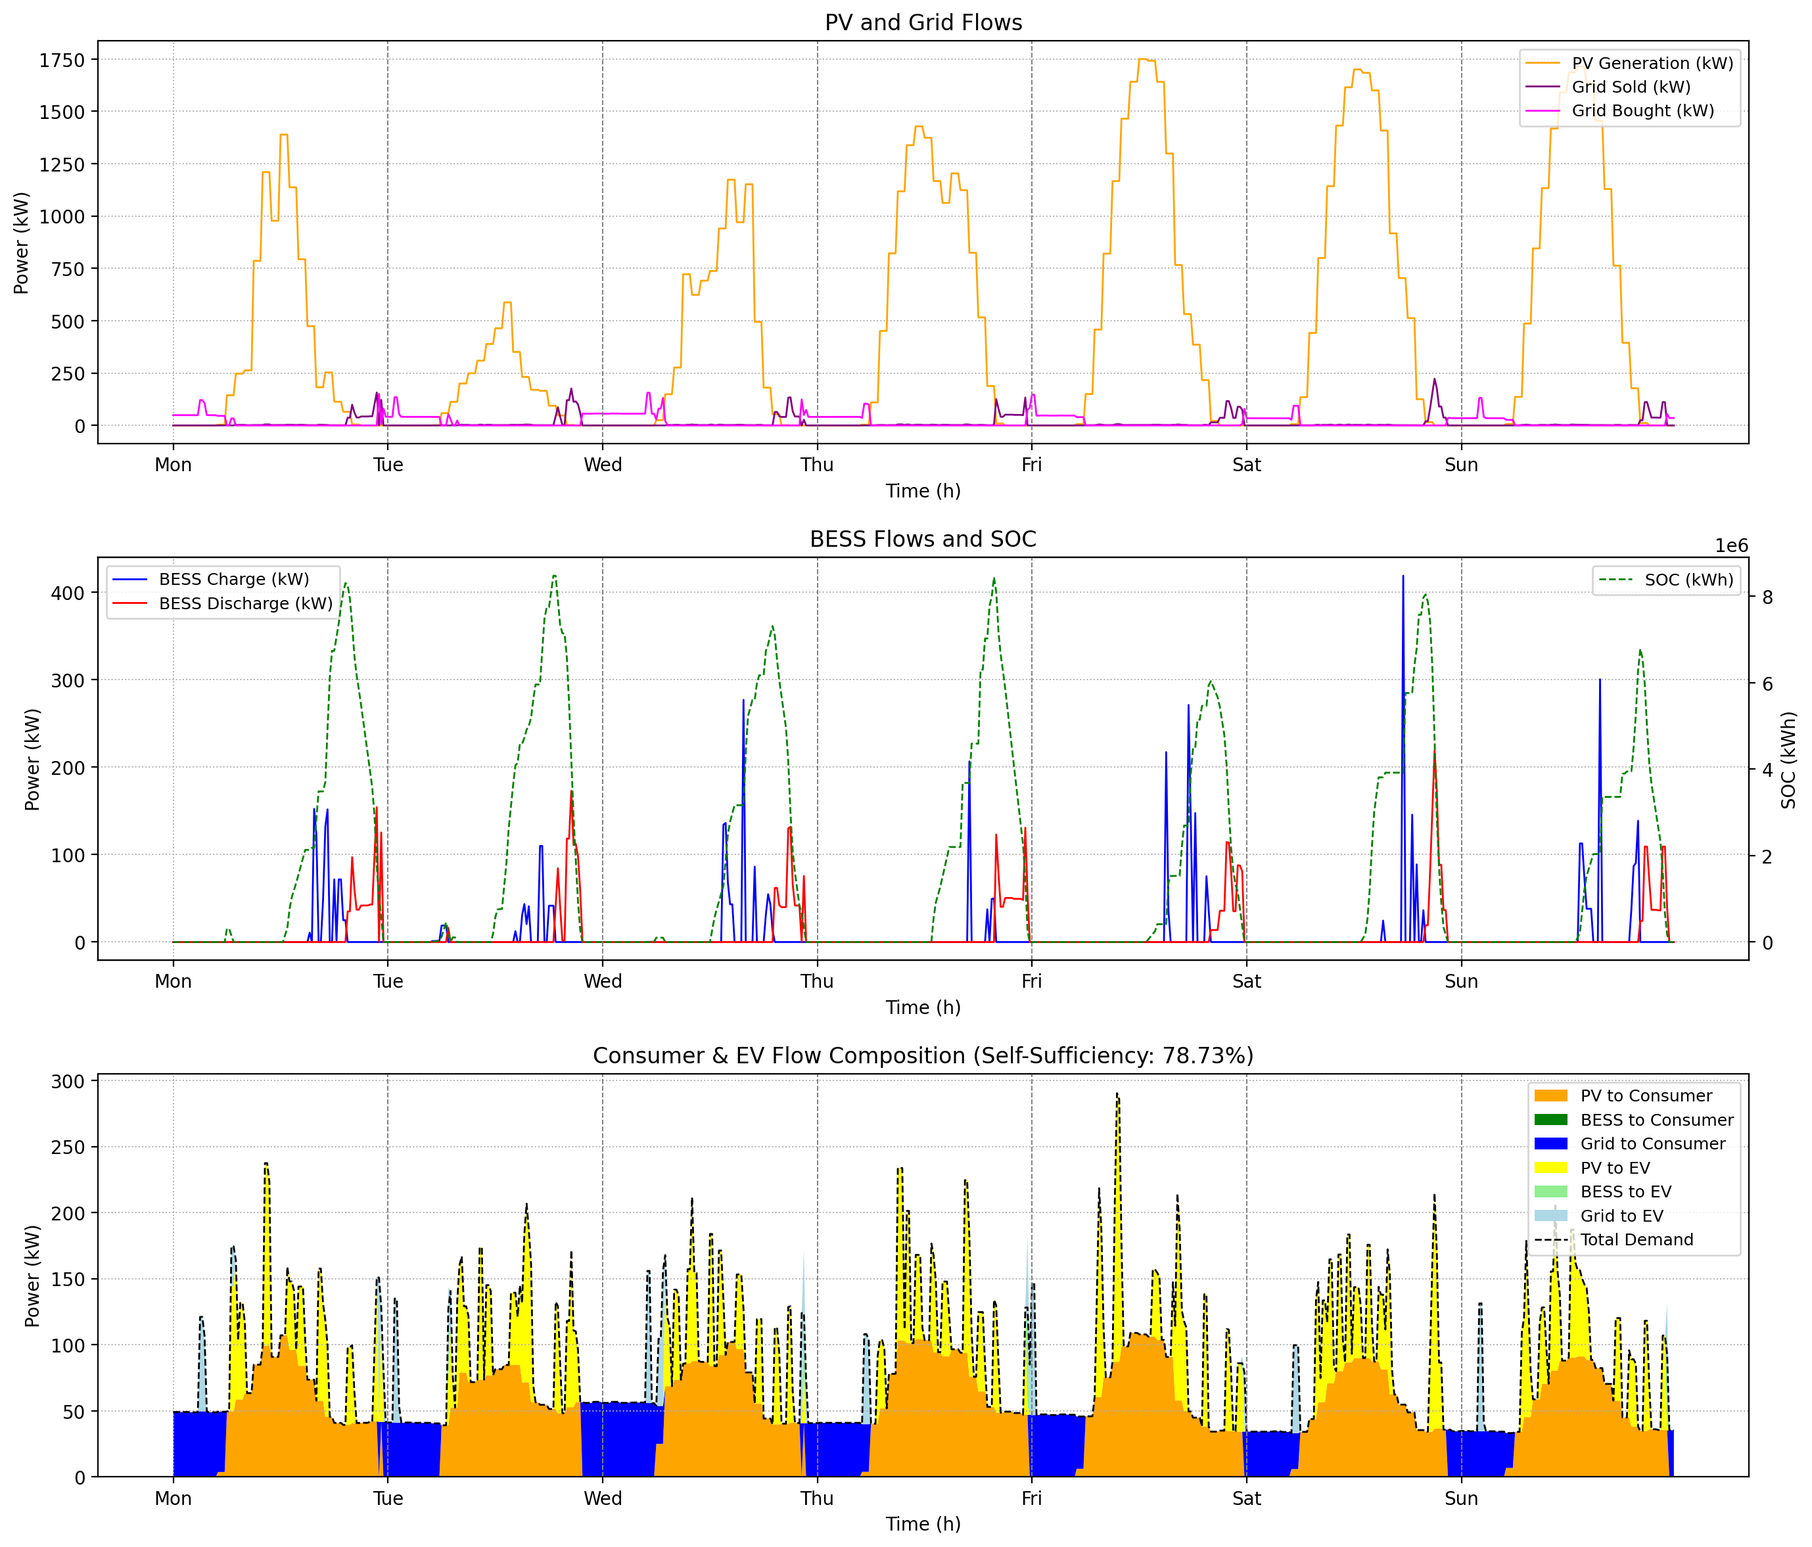
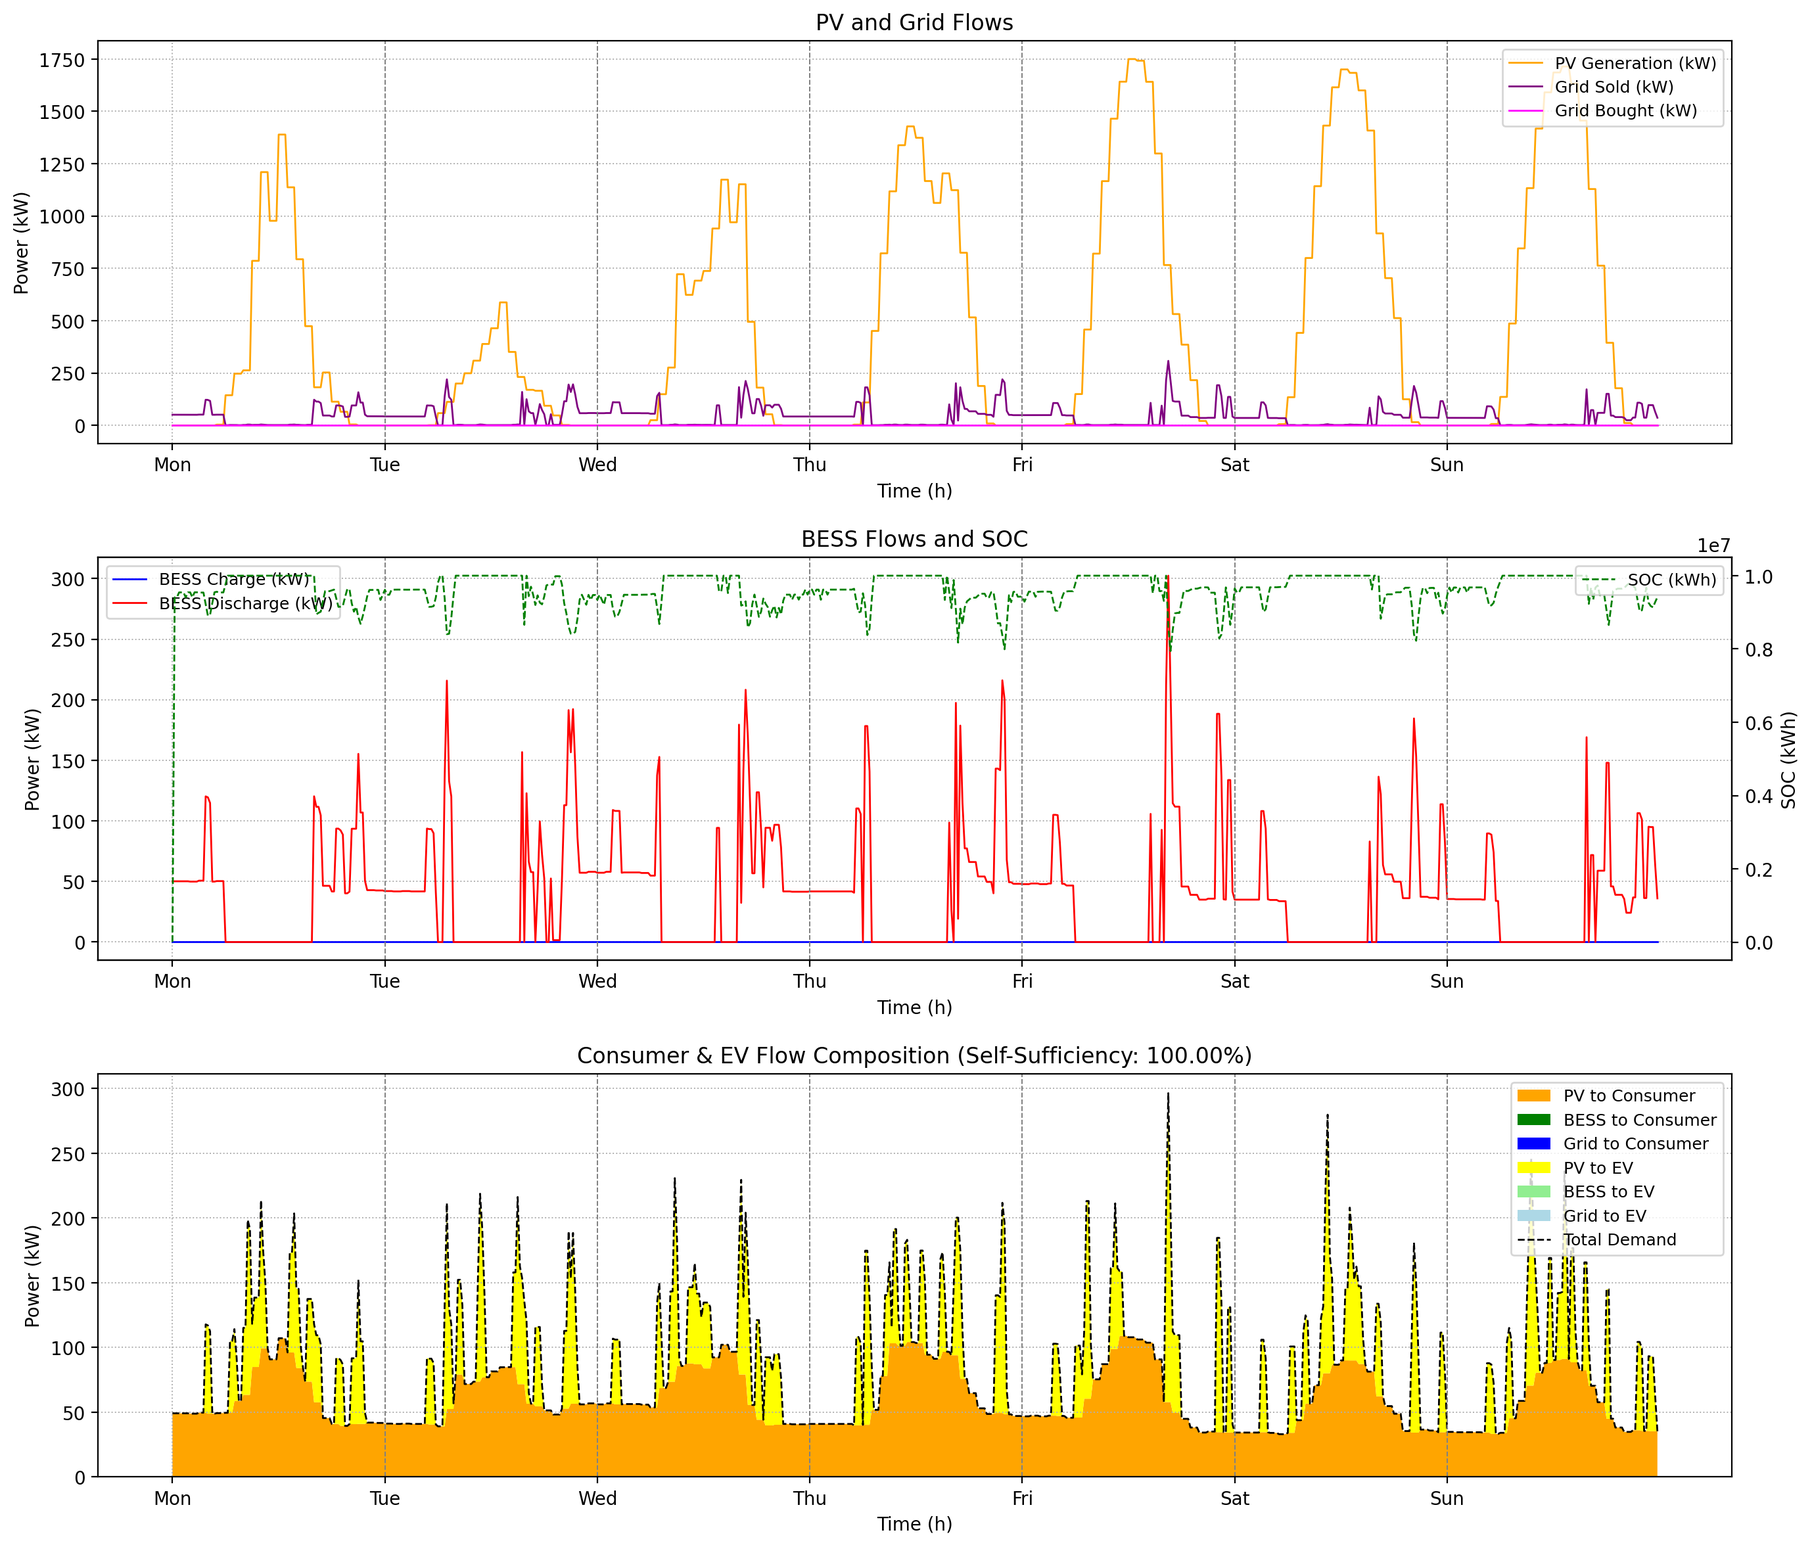
pypsa work on

diff --git a/Computing Files/load_data.py b/Computing Files/load_data.py
@@ -13,19 +13,11 @@ def load_constants(constants_path=None):
         constants_path = os.path.join(script_dir, '..', 'Input Data Files', 'Constants_Plant.csv')
     constants_data = pd.read_csv(constants_path, comment='#', header=None, names=['Parameter', 'Value'])
     params = {}
-    for key in ['BESS_Capacity', 'BESS_Power_Limit', 'BESS_Efficiency_Charge', 'BESS_Efficiency_Discharge', 'SOC_Initial', 'BESS_limit']:
-        params[key] = float(constants_data[constants_data['Parameter'] == key]['Value'].iloc[0])
+    for _, row in constants_data.iterrows():
+        params[str(row['Parameter']).strip()] = row['Value']
     return params
 
-#def load_constants():
-#    """Load plant constants from CSV file."""
-#    script_dir = os.path.dirname(os.path.abspath(__file__))
-#    csv_path = os.path.join(script_dir, '..', 'Input Data Files', 'Constants_Plant.csv')
-#    constants_data = pd.read_csv(csv_path, comment='#')
-#    return constants_data
-
 def build_time_vector(start_dt, end_dt, delta_t):
-    """Build time_steps, n_steps, and time_indices based on start/end and delta_t."""
     n_intervals = int(((end_dt - start_dt).total_seconds() / 3600) / delta_t)
     time_steps = np.arange(0, n_intervals * delta_t, delta_t)
     n_steps = len(time_steps)
@@ -33,7 +25,6 @@ def build_time_vector(start_dt, end_dt, delta_t):
     return time_steps, n_steps, time_indices
 
 def sanity_check(data):
-    """Check that all main arrays have the correct length."""
     keys = ['pv_power', 'consumer_demand', 'grid_buy_price', 'grid_sell_price']
     for k in keys:
         if len(data[k]) != data['n_steps']:
@@ -41,12 +32,11 @@ def sanity_check(data):
     return True
 
 def fetch_prices(start_dt, end_dt, use_api=True):
-    """Fetch grid prices from API or local CSV, return arrays of hourly prices."""
     if use_api:
         grid_buy_price_raw, grid_sell_price_raw = API_prices.fetch_prices()
     else:
         grid_buy_price_raw = Prices_ITA.fetch_prices_from_csv(start_dt, end_dt)
-        grid_sell_price_raw = grid_buy_price_raw - 0.01  # Assumed margin
+        grid_sell_price_raw = grid_buy_price_raw - 0.01
     if len(grid_buy_price_raw) != 168:
         raise ValueError(f"Expected 168 hourly prices, got {len(grid_buy_price_raw)}.")
     return grid_buy_price_raw, grid_sell_price_raw
@@ -54,82 +44,56 @@ def fetch_prices(start_dt, end_dt, use_api=True):
 def load(reference_case=False, use_api=True):
     """
     Load all input data for the simulation.
-    Args:
-        reference_case (bool): If True, do not scale PV for new installations.
-        use_api (bool): If True, fetch prices from API, else from local CSV.
     Returns:
         dict: All simulation data.
     """
     constants_data = load_constants()
-    period_start_str = constants_data[constants_data['Parameter'] == 'PERIOD_START']['Value'].iloc[0]
-    period_end_str = constants_data[constants_data['Parameter'] == 'PERIOD_END']['Value'].iloc[0]
+    # Access parameters directly from the dictionary
+    period_start_str = str(constants_data['PERIOD_START'])
+    period_end_str = str(constants_data['PERIOD_END'])
     start_dt = pd.to_datetime(period_start_str, format='%Y%m%d%H%M')
     end_dt = pd.to_datetime(period_end_str, format='%Y%m%d%H%M')
     delta_t = 0.25
-    # Validate period
     if (end_dt - start_dt) != timedelta(days=7):
         raise ValueError("PERIOD_START to PERIOD_END must span exactly 7 days.")
-    # Build time vector dynamically
     time_steps, n_steps, time_indices = build_time_vector(start_dt, end_dt, delta_t)
-    # Extract constants
-    timezone_offset = int(constants_data[constants_data['Parameter'] == 'TIMEZONE_OFFSET']['Value'].iloc[0])
-    bess_capacity = float(constants_data[constants_data['Parameter'] == 'BESS_Capacity']['Value'].iloc[0])
-    bess_power_limit = float(constants_data[constants_data['Parameter'] == 'BESS_Power_Limit']['Value'].iloc[0])
-    eta_charge = float(constants_data[constants_data['Parameter'] == 'BESS_Efficiency_Charge']['Value'].iloc[0])
-    eta_discharge = float(constants_data[constants_data['Parameter'] == 'BESS_Efficiency_Discharge']['Value'].iloc[0])
-    soc_initial = float(constants_data[constants_data['Parameter'] == 'SOC_Initial']['Value'].iloc[0])
-    def get_param(param_name, default=None):
-        try:
-            return float(constants_data[constants_data['Parameter'] == param_name]['Value'].iloc[0])
-        except (IndexError, KeyError):
-            if default is None:
-                raise ValueError(f"Required parameter {param_name} not found in constants file")
-            return default
-
-    pi_consumer = get_param('Consumer_Price')
-    # Get EV price
-    pi_ev = get_param('EV_PRICE', 0.6)  # Default to 0.6 EUR/kWh if not specified
-    lcoe_pv = get_param('LCOE_PV')
-    lcoe_bess = float(constants_data[constants_data['Parameter'] == 'LCOE_BESS']['Value'].iloc[0])
-    pv_old = float(constants_data[constants_data['Parameter'] == 'PV_OLD']['Value'].iloc[0])
-    pv_new = float(constants_data[constants_data['Parameter'] == 'PV_NEW']['Value'].iloc[0])
-    bidding_zone = constants_data[constants_data['Parameter'] == 'BIDDING_ZONE']['Value'].iloc[0]
-    
+    timezone_offset = int(constants_data.get('TIMEZONE_OFFSET', 0))
+    bess_capacity = float(constants_data['BESS_Capacity'])
+    bess_power_limit = float(constants_data['BESS_Power_Limit'])
+    eta_charge = float(constants_data['BESS_Efficiency_Charge'])
+    eta_discharge = float(constants_data['BESS_Efficiency_Discharge'])
+    soc_initial = float(constants_data['SOC_Initial'])
+    bess_percent_limit = float(constants_data['BESS_limit'])
+    pi_consumer = float(constants_data.get('Consumer_Price', 0))
+    pi_ev = float(constants_data.get('EV_PRICE'))
+    lcoe_pv = float(constants_data.get('LCOE_PV'))
+    lcoe_bess = float(constants_data.get('LCOE_BESS'))
+    pv_old = float(constants_data.get('PV_OLD'))
+    pv_new = float(constants_data.get('PV_NEW'))
+    bidding_zone = str(constants_data.get('BIDDING_ZONE'))   
     # Fetch prices
-    # To switch price source, comment/uncomment the following lines:
-    # --- Use API prices ---
-    # grid_buy_price_raw, grid_sell_price_raw = fetch_prices(start_dt, end_dt, use_api=True)
-    # --- Use ITA price matrix ---
     grid_buy_price_raw, grid_sell_price_raw = Prices_ITA.fetch_prices_from_csv()
-    # --- End switch ---
     grid_buy_price = np.repeat(grid_buy_price_raw.values, int(1/delta_t))
     grid_sell_price = np.repeat(grid_sell_price_raw.values, int(1/delta_t))
-    
-    
     # Load PV and demand
     result = pv_data.compute_pv_power(start_dt, end_dt)
     if reference_case:
-        pv_power = result['pv_production'] * (1 / delta_t)  # Reference: no scaling
+        pv_power = result['pv_production'] * (1 / delta_t)
     else:
         pv_power = ((pv_new + pv_old)/pv_old) * result['pv_production'] * (1 / delta_t)
     consumer_demand = result['consumer_demand'] * (1 / delta_t)
     # Load EV charging profile
-    ev_sessions_per_day = int(constants_data[constants_data['Parameter'] == 'EV_NUM_SESSIONS_PER_DAY']['Value'].iloc[0])
-    ev_session_energy = float(constants_data[constants_data['Parameter'] == 'EV_SESSION_ENERGY']['Value'].iloc[0])
-    ev_load_scale = float(constants_data[constants_data['Parameter'] == 'EV_LOAD_SCALE']['Value'].iloc[0])
-    
+    ev_sessions_per_day = int(constants_data.get('EV_NUM_SESSIONS_PER_DAY', 2))
+    ev_session_energy = float(constants_data.get('EV_SESSION_ENERGY', 10))
+    ev_load_scale = float(constants_data.get('EV_LOAD_SCALE', 1.0))
     ev_profile = ev_power_profile.generate_ev_charging_profile(
-        start_dt, end_dt, 
+        start_dt, end_dt,
         num_sessions_per_day=ev_sessions_per_day,
         session_energy=ev_session_energy,
         load_scale=ev_load_scale
     )
     ev_demand = ev_profile['ev_demand'] * (1 / delta_t)
-    
-    # Add EV demand to consumer demand but keep it separate for financial accounting
     total_demand = consumer_demand + ev_demand
-    
-    # Use actual start_dt for weekday and period string
     start_weekday = start_dt.weekday()
     period_str = f"{start_dt.strftime('%Y-%m-%d')} to {end_dt.strftime('%Y-%m-%d')}"
     data = {
@@ -141,12 +105,13 @@ def load(reference_case=False, use_api=True):
         'grid_sell_price': grid_sell_price,
         'lcoe_pv': lcoe_pv,
         'lcoe_bess': lcoe_bess,
-        'pi_ev': pi_ev,  # Add EV price to data dictionary
+        'pi_ev': pi_ev,
         'bess_capacity': bess_capacity,
         'bess_power_limit': bess_power_limit,
         'eta_charge': eta_charge,
         'eta_discharge': eta_discharge,
         'soc_initial': soc_initial,
+        'bess_percent_limit': bess_percent_limit,
         'pi_consumer': pi_consumer,
         'bidding_zone_desc': f"({bidding_zone})",
         'period_str': period_str,

diff --git a/Computing Files/mpc.py b/Computing Files/mpc.py
@@ -1,7 +1,6 @@
 import pypsa
 import pandas as pd
 import numpy as np
-import logging
 import os
 
 def load_bess_params(constants_path=None):
@@ -26,6 +25,14 @@ class MPC:
         self.bess_percent_limit = params['BESS_limit']
 
     def predict(self, soc, pv_forecast, demand_forecast, ev_forecast, buy_forecast, sell_forecast, lcoe_pv, pi_ev, horizon):
+        # Debug: print input parameters
+        print("PV forecast (first 5):", pv_forecast[:5])
+        print("BESS power limit:", self.bess_power_limit)
+        print("BESS capacity:", self.bess_capacity)
+        print("Grid buy price (first 5):", buy_forecast[:5])
+        print("Consumer demand (first 5):", demand_forecast[:5])
+        print("EV demand (first 5):", ev_forecast[:5])
+
         snapshots = pd.date_range("2024-01-01", periods=horizon, freq=f'{int(self.delta_t*60)}min')
         n = pypsa.Network()
         n.set_snapshots(snapshots)
@@ -39,25 +46,32 @@ class MPC:
         n.add("Link", "DC_AC_Converter", bus0="DC", bus1="AC", p_nom=1e6, efficiency=0.98, marginal_cost=0)
 
         # PV generator (DC bus)
-        n.add("Generator", "PV", bus="DC", p_nom=max(pv_forecast), p_max_pu=pv_forecast/np.max(pv_forecast), marginal_cost=0)
+        pv_nom = max(pv_forecast)
+        pv_max = np.max(pv_forecast)
+        if pv_max == 0:
+            pv_max = 1  # Prevent division by zero
+        n.add("Generator", "PV", bus="DC", p_nom=pv_nom, p_max_pu=pv_forecast/pv_max, marginal_cost=0)
 
         # BESS (DC bus)
-        n.add("StorageUnit", "BESS", bus="DC",
-              p_nom=self.bess_power_limit,
-              max_hours=self.bess_capacity/self.bess_power_limit,
-              efficiency_store=self.eta_charge,
-              efficiency_dispatch=self.eta_discharge,
-              marginal_cost=0,
-              state_of_charge_initial=soc,
-              state_of_charge_min=self.bess_percent_limit * self.bess_capacity,
-              state_of_charge_max=self.bess_capacity)
+        print(f"BESS params: p_nom={self.bess_power_limit}, capacity={self.bess_capacity}")
+        if self.bess_power_limit > 0 and self.bess_capacity > 0:
+            n.add("StorageUnit", "BESS", bus="DC",
+                  p_nom=self.bess_power_limit,
+                  max_hours=self.bess_capacity/self.bess_power_limit,
+                  efficiency_store=self.eta_charge,
+                  efficiency_dispatch=self.eta_discharge,
+                  marginal_cost=0,
+                  state_of_charge_initial=soc,
+                  state_of_charge_min=self.bess_percent_limit * self.bess_capacity,
+                  state_of_charge_max=self.bess_capacity)
 
-        # Grid import/export as Links
-        n.add("Link", "Grid_Import", bus0="Grid", bus1="AC", p_nom=1e6, efficiency=1.0, marginal_cost=buy_forecast)
-        n.add("Link", "Grid_Export", bus0="AC", bus1="Grid", p_nom=1e6, efficiency=1.0, marginal_cost=-sell_forecast)
+        # Grid import/export as Links (no artificial limits, p_nom=1e6)
+        n.add("Link", "Grid_Import", bus0="Grid", bus1="AC", p_nom=1e6, efficiency=1.0, marginal_cost=pd.Series(buy_forecast, index=snapshots))
+        n.add("Link", "Grid_Export", bus0="AC", bus1="Grid", p_nom=1e6, efficiency=1.0, marginal_cost=-pd.Series(sell_forecast, index=snapshots))
 
-        # Infinite generator at Grid bus (reference)
-        n.add("Generator", "Grid_Source", bus="Grid", p_nom=1e6, marginal_cost=0)
+        # Infinite generator at Grid bus (reference, marginal_cost=buy_forecast)
+        # This ensures grid can always supply at market price
+        n.add("Generator", "Grid_Source", bus="Grid", p_nom=1e6, marginal_cost=pd.Series(buy_forecast, index=snapshots))
 
         # Loads (AC bus)
         n.add("Load", "Consumer", bus="AC", p_set=0)
@@ -69,15 +83,71 @@ class MPC:
         n.optimize.create_model()
         n.optimize.solve_model(solver_name="gurobi")
 
-        # Extract flows for first step
-        pv_gen = n.generators_t.p["PV"].values[0]
-        bess_dispatch = n.storage_units_t.p["BESS"].values[0]
-        soc_next = n.storage_units_t.state_of_charge["BESS"].values[1] * self.bess_capacity if len(n.storage_units_t.state_of_charge["BESS"]) > 1 else soc
-        link_dc_to_ac = n.links_t.p0["DC_AC_Converter"].values[0]
-        grid_import = n.links_t.p0["Grid_Import"].values[0]
-        grid_export = n.links_t.p0["Grid_Export"].values[0]
-        consumer_load = n.loads_t.p["Consumer"].values[0]
-        ev_load = n.loads_t.p["EV"].values[0]
+        # Fail-safe: check if solved
+        if not n.is_solved:
+            print("Optimization failed: infeasible or unbounded.")
+            return {
+                'P_BESS': 0,
+                'SOC_next': soc,
+                'P_BESS_discharge': 0,
+                'P_BESS_charge': 0,
+                'P_PV_gen': 0,
+                'P_link_dc_to_ac': 0,
+                'P_grid_import': 0,
+                'P_grid_export': 0,
+                'pv_bess_to_consumer': 0,
+                'pv_bess_to_ev': 0,
+                'pv_bess_to_grid': 0,
+                'grid_to_consumer': 0,
+                'grid_to_ev': 0,
+                'ev_renewable_share': 0,
+                'ev_revenue': 0,
+                'bess_capacity': self.bess_capacity,
+                'bess_power_limit': self.bess_power_limit,
+                'bess_efficiency_charge': self.eta_charge,
+                'bess_efficiency_discharge': self.eta_discharge,
+                'soc_initial': self.soc_initial,
+                'bess_percent_limit': self.bess_percent_limit,
+                'slack': 0.0
+            }
+
+        # Defensive extraction for PV
+        if "PV" in n.generators_t.p.columns:
+            pv_gen = n.generators_t.p["PV"].values[0]
+        else:
+            pv_gen = 0
+
+        # Defensive extraction for BESS
+        if "BESS" in n.storage_units_t.p.columns:
+            bess_dispatch = n.storage_units_t.p["BESS"].values[0]
+            soc_next = n.storage_units_t.state_of_charge["BESS"].values[1] * self.bess_capacity if len(n.storage_units_t.state_of_charge["BESS"]) > 1 else soc
+        else:
+            bess_dispatch = 0
+            soc_next = soc
+
+        # Defensive extraction for links
+        if "DC_AC_Converter" in n.links_t.p0.columns:
+            link_dc_to_ac = n.links_t.p0["DC_AC_Converter"].values[0]
+        else:
+            link_dc_to_ac = 0
+        if "Grid_Import" in n.links_t.p0.columns:
+            grid_import = n.links_t.p0["Grid_Import"].values[0]
+        else:
+            grid_import = 0
+        if "Grid_Export" in n.links_t.p0.columns:
+            grid_export = n.links_t.p0["Grid_Export"].values[0]
+        else:
+            grid_export = 0
+
+        # Defensive extraction for loads
+        if "Consumer" in n.loads_t.p.columns:
+            consumer_load = n.loads_t.p["Consumer"].values[0]
+        else:
+            consumer_load = 0
+        if "EV" in n.loads_t.p.columns:
+            ev_load = n.loads_t.p["EV"].values[0]
+        else:
+            ev_load = 0
 
         # Map DC to AC flow to demand and grid export
         dc_to_ac_available = max(link_dc_to_ac, 0)
@@ -86,6 +156,10 @@ class MPC:
         pv_bess_to_grid = max(0, dc_to_ac_available - pv_bess_to_consumer - pv_bess_to_ev)
         grid_to_consumer = max(0, consumer_load - pv_bess_to_consumer)
         grid_to_ev = max(0, ev_load - pv_bess_to_ev)
+
+        # Calculate renewable share for EV charging and its revenue
+        ev_renewable_share = pv_bess_to_ev / ev_load if ev_load > 0 else 0
+        ev_revenue = pv_bess_to_ev * pi_ev  # Only renewable share, grid share is cost
 
         return {
             'P_BESS': bess_dispatch,
@@ -101,6 +175,8 @@ class MPC:
             'pv_bess_to_grid': pv_bess_to_grid,
             'grid_to_consumer': grid_to_consumer,
             'grid_to_ev': grid_to_ev,
+            'ev_renewable_share': ev_renewable_share,
+            'ev_revenue': ev_revenue,
             'bess_capacity': self.bess_capacity,
             'bess_power_limit': self.bess_power_limit,
             'bess_efficiency_charge': self.eta_charge,

diff --git a/Computing Files/main_Optimization.py b/Computing Files/main_Optimization.py
@@ -1,5 +1,6 @@
 from mpc import MPC
 from load_data import load_constants
+import load_data
 import numpy as np
 import post_process
 import plots
@@ -34,7 +35,7 @@ assert len(data['grid_buy_price']) == data['n_steps']
 assert len(data['grid_sell_price']) == data['n_steps']
 
 # MPC Parameters
-horizon = 30  # 6 hours = 30 x 15-min steps
+horizon = 24  # 6 hours = 30 x 15-min steps
 mpc_controller = MPC()
 
 # Initialize arrays including EV-related variables
